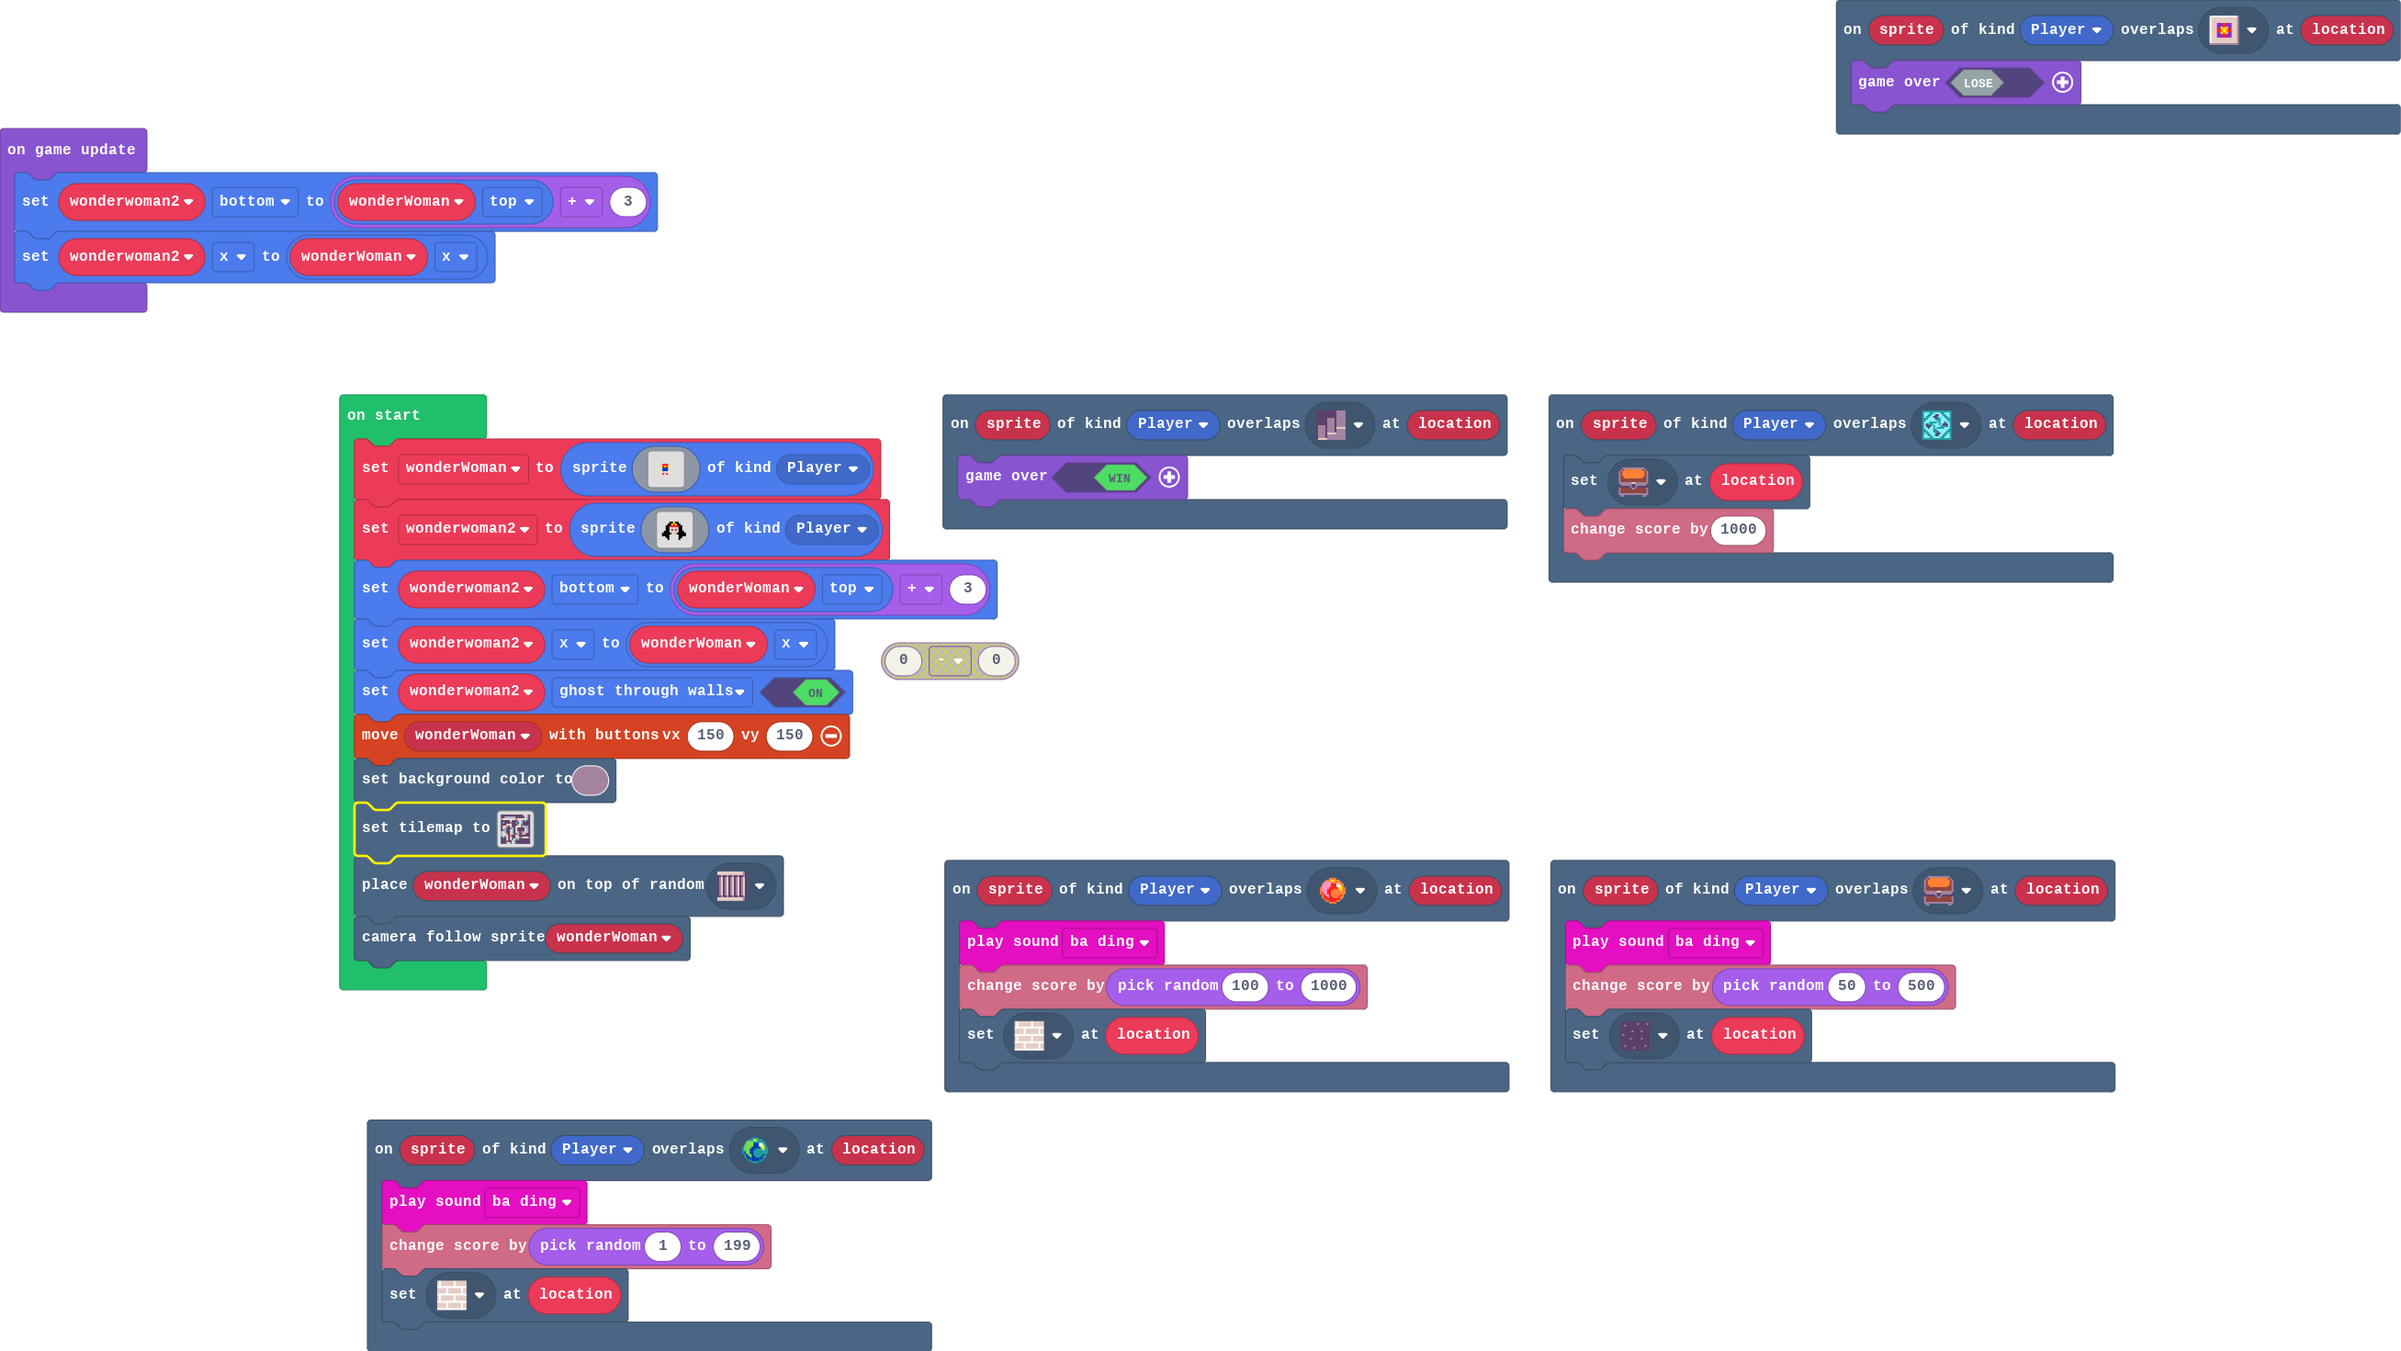
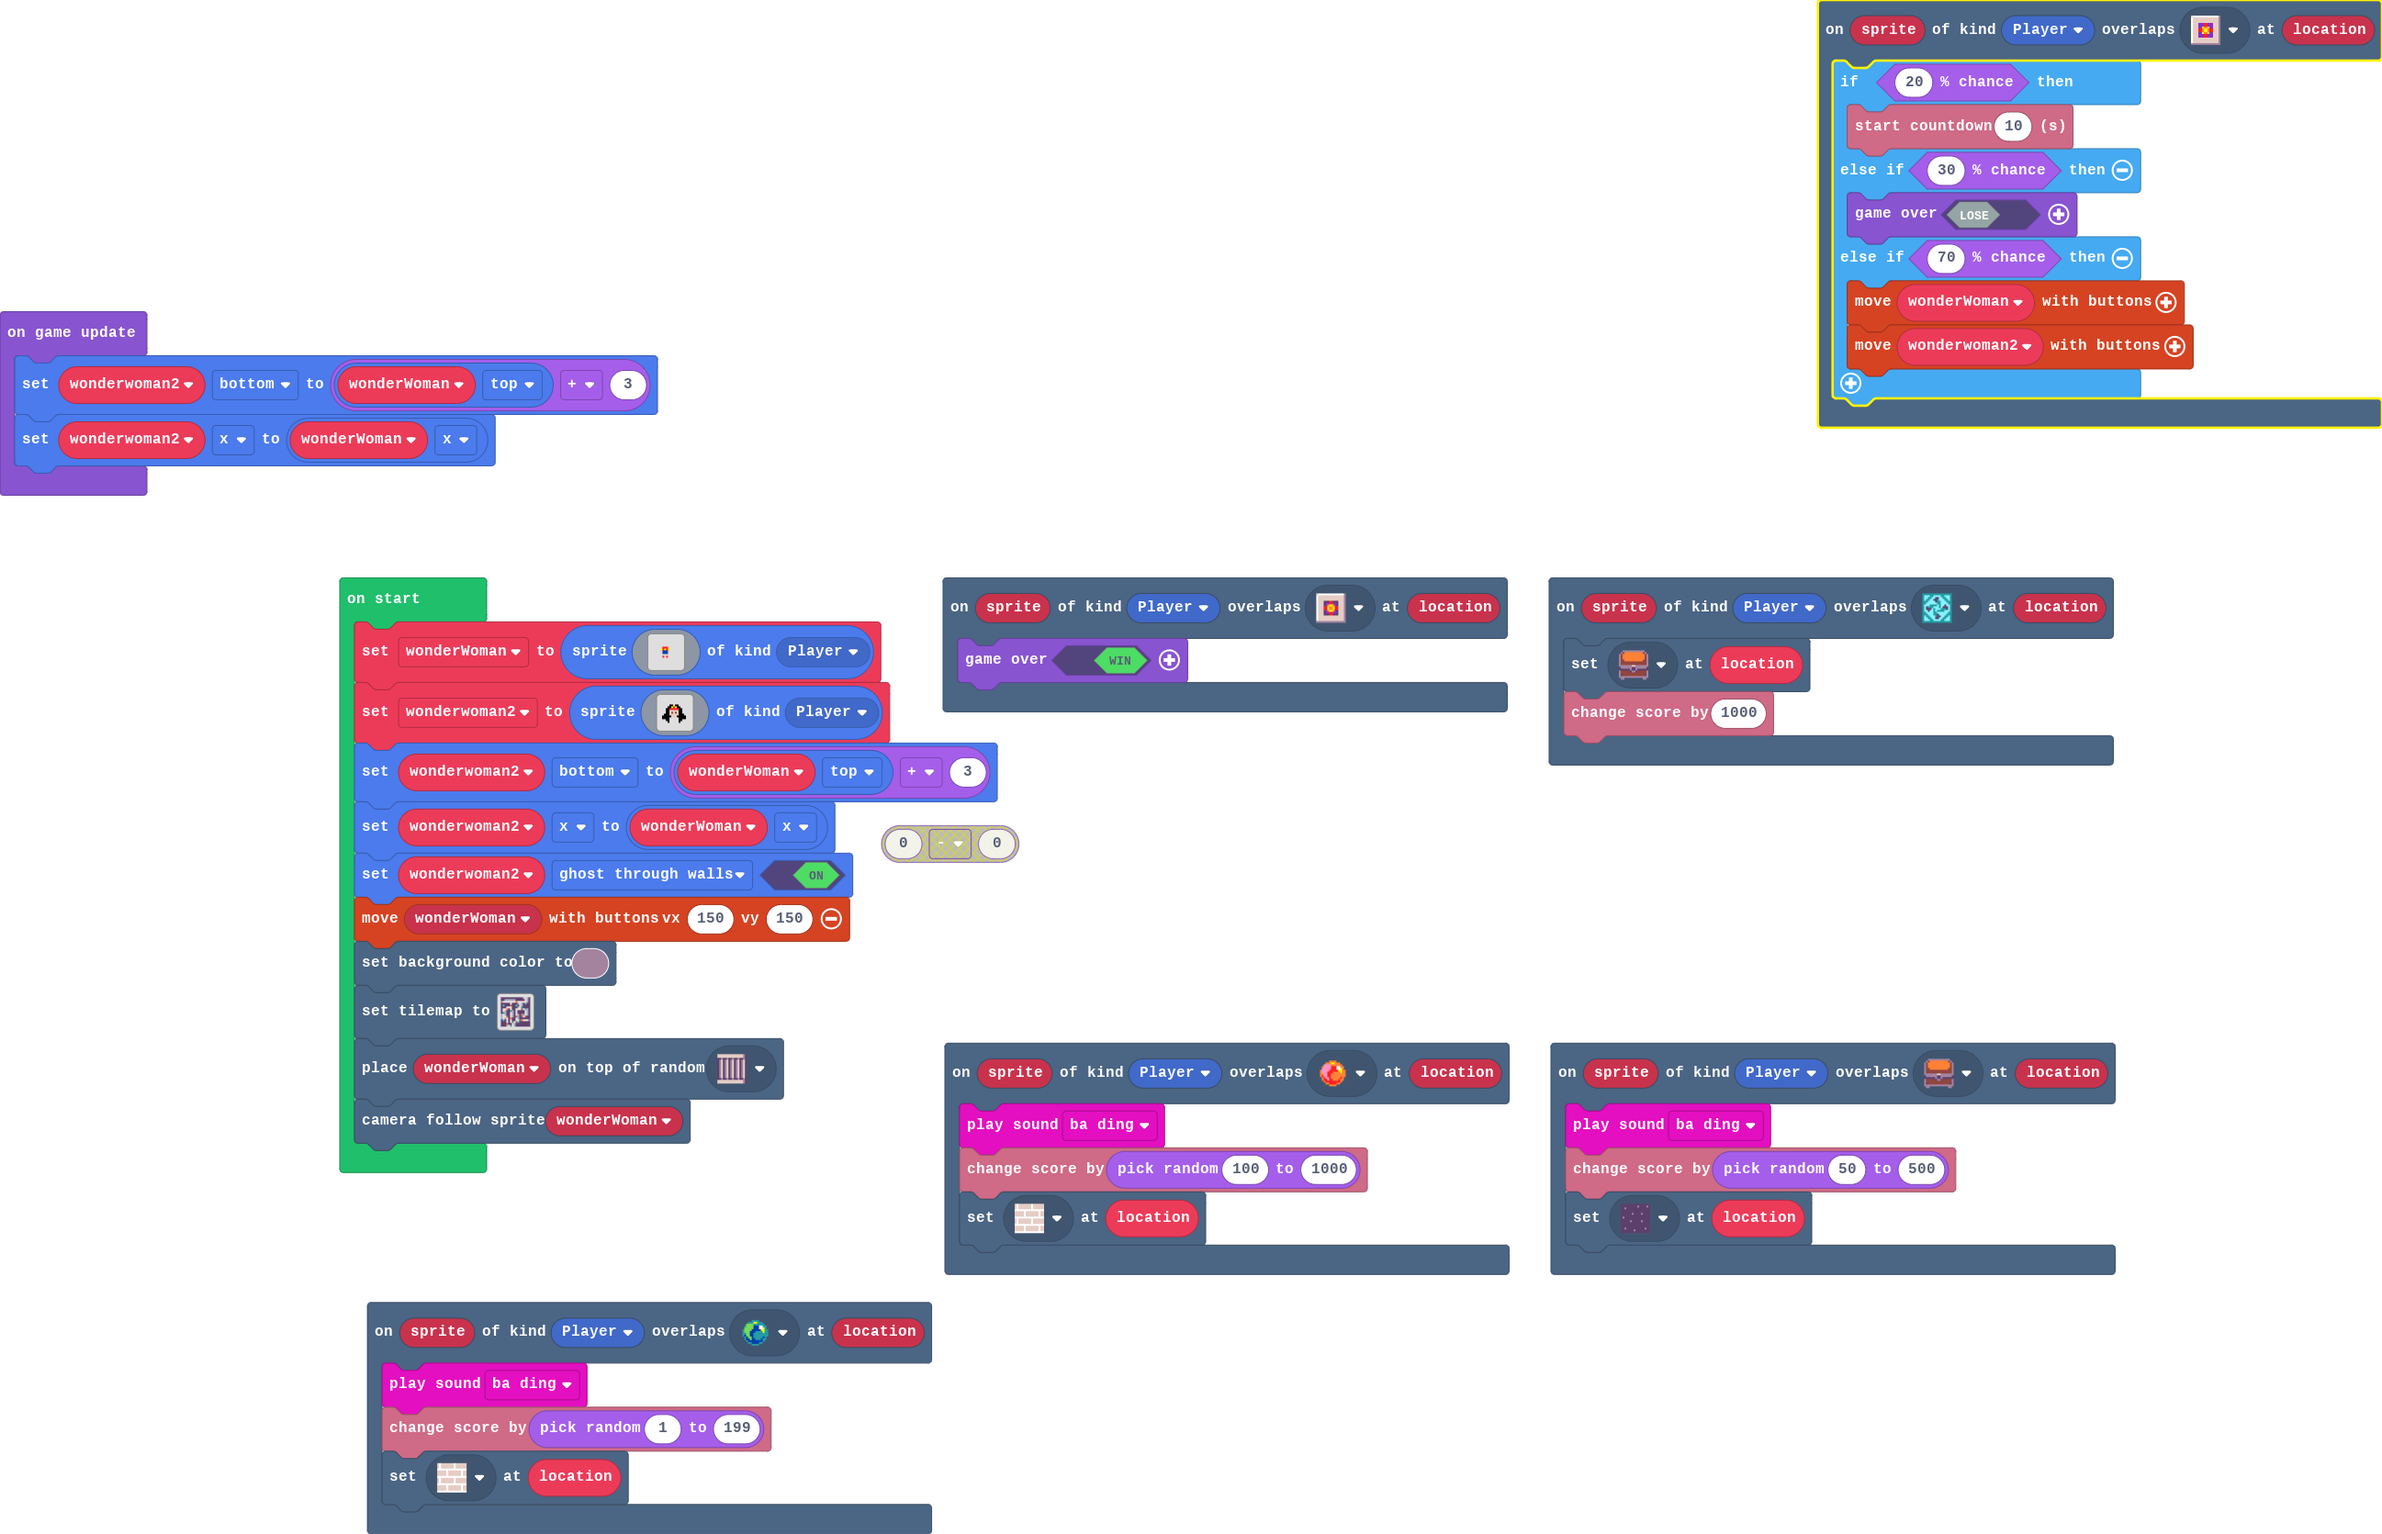
Update main.blocks, main.ts

diff --git a/main.ts b/main.ts
@@ -1,5 +1,12 @@
 scene.onOverlapTile(SpriteKind.Player, assets.tile`myTile4`, function (sprite, location) {
-    game.over(false)
+    if (Math.percentChance(20)) {
+        info.startCountdown(10)
+    } else if (Math.percentChance(30)) {
+        game.over(false)
+    } else if (Math.percentChance(70)) {
+        controller.moveSprite(wonderWoman)
+        controller.moveSprite(wonderwoman2)
+    }
 })
 scene.onOverlapTile(SpriteKind.Player, sprites.dungeon.collectibleBlueCrystal, function (sprite, location) {
     music.baDing.play()
@@ -11,7 +18,7 @@ scene.onOverlapTile(SpriteKind.Player, sprites.dungeon.chestClosed, function (sp
     info.changeScoreBy(randint(50, 500))
     tiles.setTileAt(location, sprites.dungeon.darkGroundCenter)
 })
-scene.onOverlapTile(SpriteKind.Player, assets.tile`tile2`, function (sprite, location) {
+scene.onOverlapTile(SpriteKind.Player, assets.tile`myTile5`, function (sprite, location) {
     game.over(true)
 })
 scene.onOverlapTile(SpriteKind.Player, sprites.dungeon.collectibleRedCrystal, function (sprite, location) {
@@ -23,7 +30,9 @@ scene.onOverlapTile(SpriteKind.Player, sprites.dungeon.collectibleInsignia, func
     tiles.setTileAt(location, sprites.dungeon.chestClosed)
     info.changeScoreBy(1000)
 })
-let wonderWoman = sprites.create(img`
+let wonderwoman2: Sprite = null
+let wonderWoman: Sprite = null
+wonderWoman = sprites.create(img`
     . . . . . d 2 2 2 d . . . . . . 
     . . . . . 5 2 5 2 5 . . . . . . 
     . . . . . d 8 8 8 d . . . . . . 
@@ -31,7 +40,7 @@ let wonderWoman = sprites.create(img`
     . . . . . . d . d . . . . . . . 
     . . . . . . 2 . 2 . . . . . . . 
     `, SpriteKind.Player)
-let wonderwoman2 = sprites.create(img`
+wonderwoman2 = sprites.create(img`
     . . . . . . . . . . . . . . . . 
     . . . . . f f 5 f f . . . . . . 
     . . . . f f 5 2 5 f f . . . . . 
